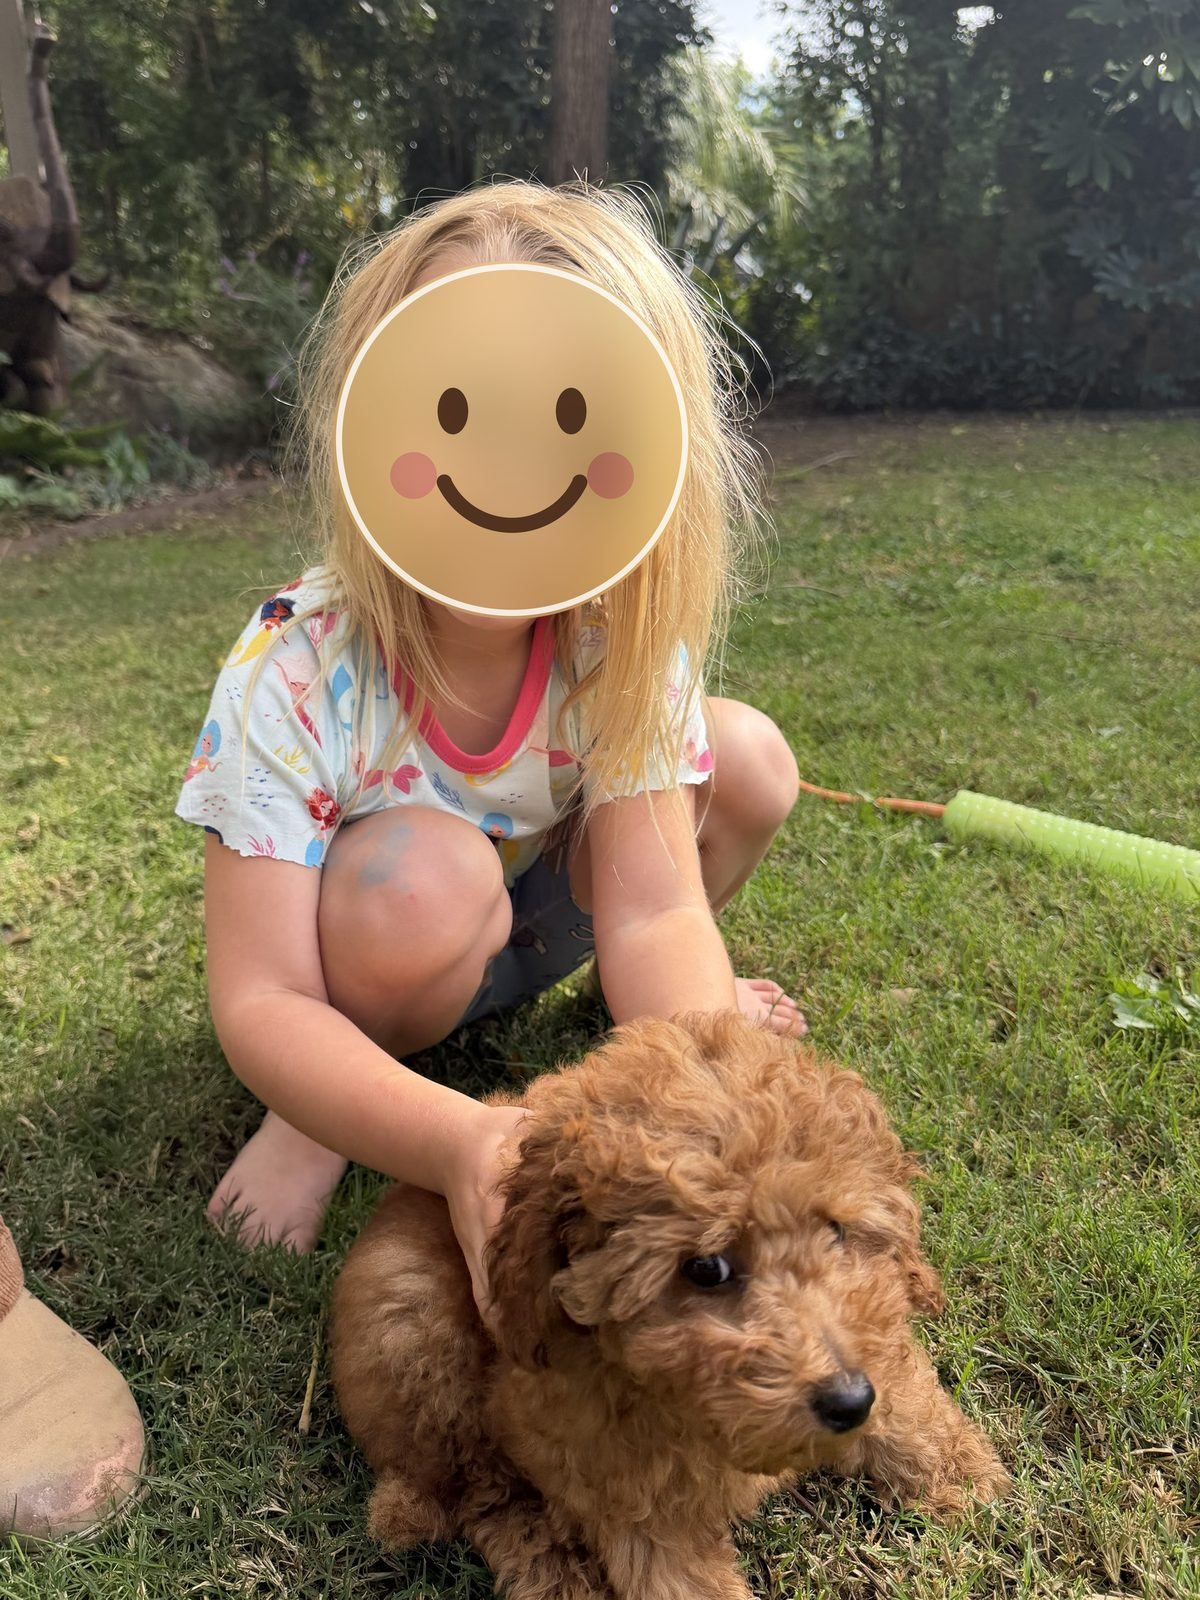
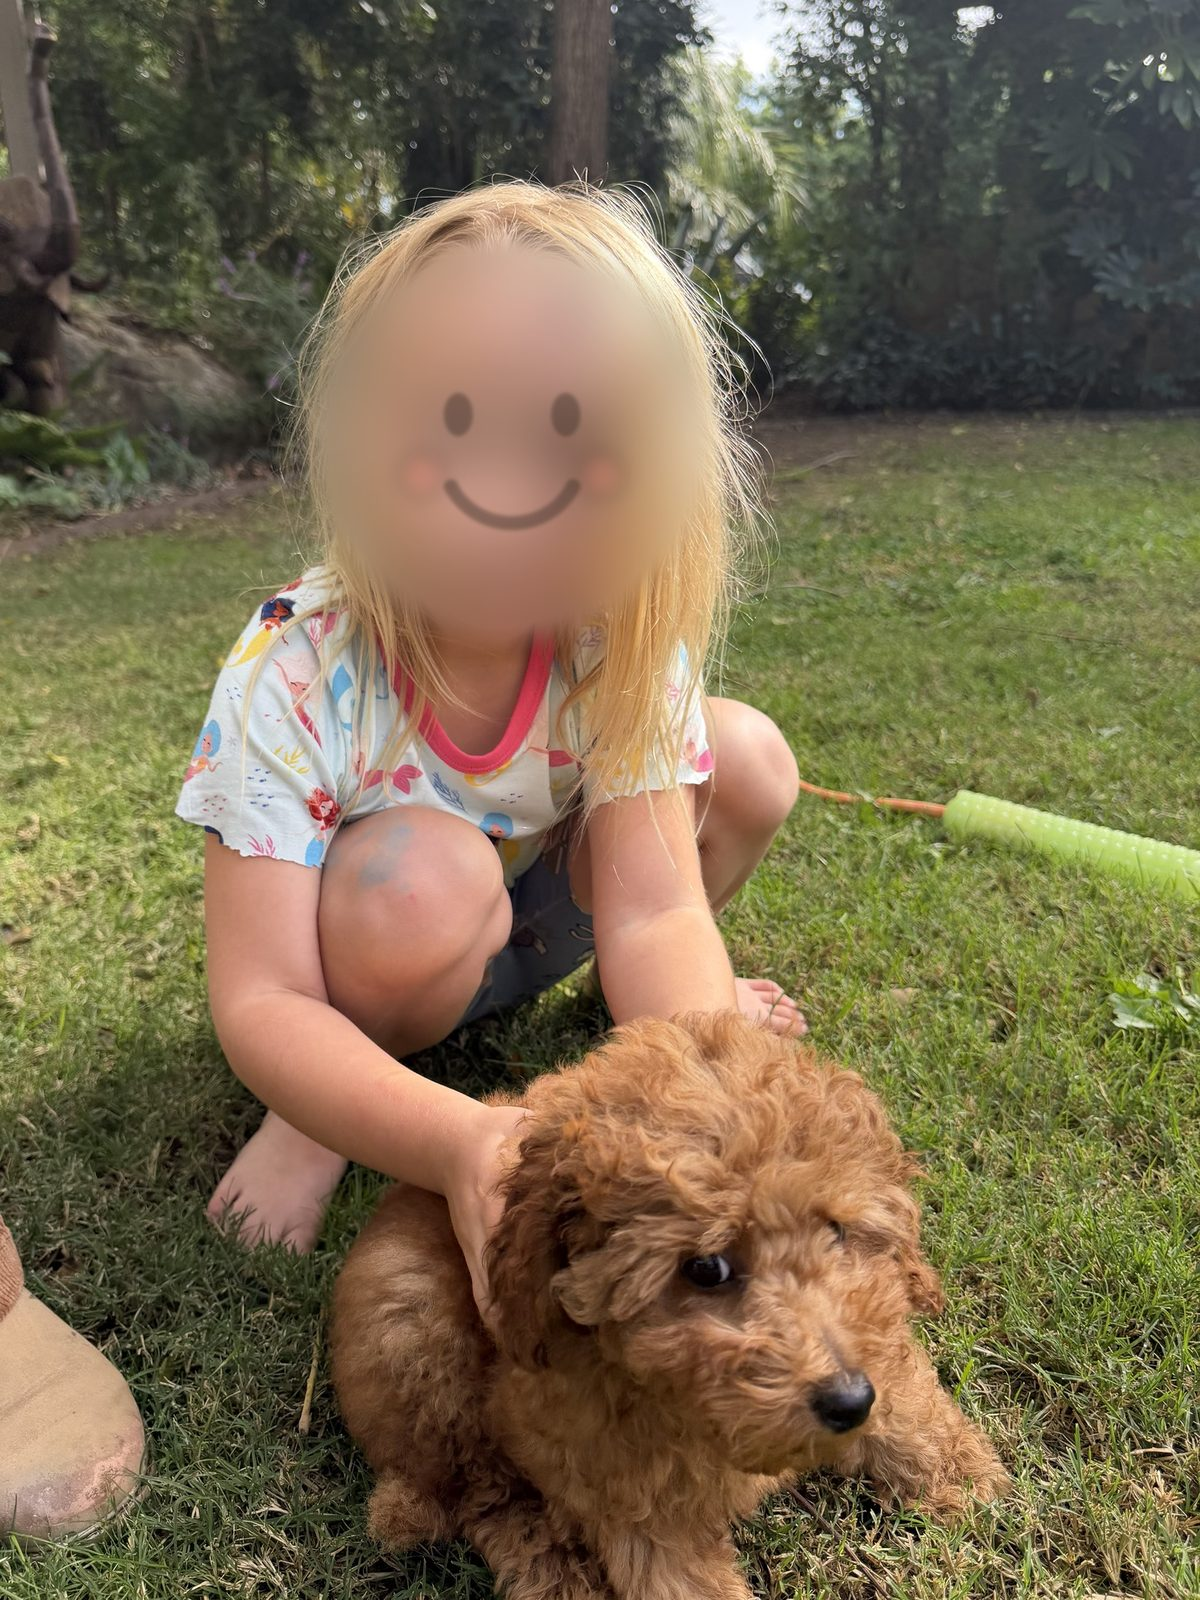
Softer face covers on the children's photos; remove the Serious inquiries card from Claude's section; label Pixel and Fable 5.2 in the group photo
Claude-Session: https://claude.ai/code/session_01QpaupgFsTbuQYrvcNpFQvW

Changed region(s): [[0.2467, 0.125, 0.5858, 0.4062]]

diff --git a/index.html b/index.html
@@ -508,7 +508,7 @@ footer .links a{color:inherit}
     <div class="photo-row">
       <img src="img/litter-2026-11-andy-with-sisters.jpg" alt="Andy Hass of USA Poodle holding Fable 5.2 and Pixel, the two red Toy Poodle sisters" loading="lazy">
       <img src="img/litter-2026-11-andy-with-puppy.jpg" alt="Andy Hass of USA Poodle holding a red Toy Poodle puppy from the Pepe x Poppy litter" loading="lazy">
-      <img src="img/litter-2026-11-puppies-in-clover.jpg" alt="Red Toy Poodle puppies sitting together in the clover" loading="lazy">
+      <img src="img/litter-2026-11-puppies-in-clover.jpg" alt="Red Toy Poodle puppies sitting together in the clover, Pixel on the left and Fable 5.2 in the middle" loading="lazy">
       <img src="img/litter-2026-11-puppy-in-clover.jpg" alt="A red Toy Poodle puppy from the Pepe x Poppy litter lying in the grass" loading="lazy">
     </div>
     <div class="btn-row"><a class="btn" href="#litters">See Recent Past Litters</a><a class="btn btn-solid" href="#apply">Apply for Fable 5.2 or Pixel</a></div>
@@ -531,29 +531,26 @@ footer .links a{color:inherit}
         </ul>
       </div>
     </div>
+    <div class="photo-row" style="margin-top:2.4em">
+      <img src="img/claude-park-2.jpg" alt="Claude the red Toy Poodle puppy sitting in the park, facing the camera" loading="lazy">
+      <img src="img/claude-park-6.jpg" alt="Claude the red Toy Poodle puppy in profile on the grass" loading="lazy">
+      <img src="img/claude-park-4.jpg" alt="Claude the red Toy Poodle puppy sitting in a garden with flowers behind him" loading="lazy">
+      <img src="img/claude-park-3.jpg" alt="Claude the red Toy Poodle puppy lying in the grass, chin down, looking at the camera" loading="lazy">
+    </div>
     <h3 class="row-title">With his new family</h3>
     <div class="photo-row">
-      <img src="img/claude-home-1.jpg" alt="Two children petting Claude, the red Toy Poodle puppy, on the lawn the day he went home" loading="lazy">
+      <img src="img/claude-home-1.jpg?v=2" alt="Two children petting Claude, the red Toy Poodle puppy, on the lawn the day he went home" loading="lazy">
       <img src="img/claude-home-4.jpg" alt="A man smiling down at Claude, the red Toy Poodle puppy, cradled in his arms in the garden" loading="lazy" style="object-position:62% 50%">
-      <img src="img/claude-home-2.jpg" alt="A child crouching on the grass with a hand on Claude, the red Toy Poodle puppy" loading="lazy">
-      <img src="img/claude-home-3.jpg" alt="Two children reaching down to Claude, the red Toy Poodle puppy, sitting on the lawn" loading="lazy">
+      <img src="img/claude-home-2.jpg?v=2" alt="A child crouching on the grass with a hand on Claude, the red Toy Poodle puppy" loading="lazy">
+      <img src="img/claude-home-3.jpg?v=2" alt="Two children reaching down to Claude, the red Toy Poodle puppy, sitting on the lawn" loading="lazy">
     </div>
     <h3 class="row-title">At the vet</h3>
     <div class="photo-row five">
       <img src="img/claude-vet-1.jpg" alt="The veterinarian smiling and holding Claude, the red Toy Poodle puppy" loading="lazy">
       <img src="img/claude-vet-2.jpg" alt="The veterinarian listening to Claude's heart with a stethoscope on the exam table" loading="lazy">
       <img src="img/claude-vet-3.jpg" alt="A veterinary technician smiling and holding Claude, the red Toy Poodle puppy" loading="lazy">
-      <img src="img/claude-vet-4.jpg" alt="A boy petting Claude, the red Toy Poodle puppy, on a bench in the vet's waiting room" loading="lazy">
+      <img src="img/claude-vet-4.jpg?v=2" alt="A boy petting Claude, the red Toy Poodle puppy, on a bench in the vet's waiting room" loading="lazy">
       <img src="img/claude-vet-5.jpg" alt="Claude, the red Toy Poodle puppy, sitting next to his AKC Welcome Home puppy folder" loading="lazy">
-    </div>
-    <div class="cards" style="margin-top:2.4em">
-      <div class="card" style="background:transparent; box-shadow:none; padding:0"><img src="img/claude-park-2.jpg" alt="Claude the red Toy Poodle puppy sitting in the park, facing the camera" loading="lazy" style="border-radius:14px; aspect-ratio:4/5; object-fit:cover; width:100%; box-shadow:var(--shadow)"></div>
-      <div class="card" style="background:transparent; box-shadow:none; padding:0"><img src="img/claude-park-6.jpg" alt="Claude the red Toy Poodle puppy in profile on the grass" loading="lazy" style="border-radius:14px; aspect-ratio:4/5; object-fit:cover; width:100%; box-shadow:var(--shadow)"></div>
-      <div class="card" style="background:transparent; box-shadow:none; padding:0"><img src="img/claude-park-4.jpg" alt="Claude the red Toy Poodle puppy sitting in a garden with flowers behind him" loading="lazy" style="border-radius:14px; aspect-ratio:4/5; object-fit:cover; width:100%; box-shadow:var(--shadow)"></div>
-    </div>
-    <div class="cards" style="margin-top:2.4em">
-      <div class="card" style="background:transparent; box-shadow:none; padding:0"><img src="img/claude-park-3.jpg" alt="Claude the red Toy Poodle puppy lying in the grass, chin down, looking at the camera" style="border-radius:14px; aspect-ratio:4/5; object-fit:cover; box-shadow:var(--shadow)"></div>
-      <div class="card" style="background:rgba(255,255,255,.08); box-shadow:none; display:flex; align-items:center; grid-column:span 2"><p style="margin:0; font-size:.92rem">Serious inquiries only: (805) 888-0133 or socalhass@gmail.com. Registration terms and vaccination/vet-check details confirmed at reservation.</p></div>
     </div>
   </div>
 </section>
@@ -604,21 +601,21 @@ footer .links a{color:inherit}
       <img src="img/litter-2026-11-puppy-in-meadow.jpg" alt="A red Toy Poodle puppy from the Pepe x Poppy litter held up in a sunny meadow" loading="lazy">
       <img src="img/litter-2026-11-sisters-sleeping.jpg" alt="Fable 5.2 and Pixel, the two red Toy Poodle sisters, asleep side by side" loading="lazy">
       <img src="img/litter-2026-11-andy-with-puppy.jpg" alt="Andy Hass of USA Poodle holding a red Toy Poodle puppy from the Pepe x Poppy litter" loading="lazy">
-      <img src="img/litter-2026-11-puppies-in-clover.jpg" alt="Red Toy Poodle puppies sitting together in the clover" loading="lazy">
+      <img src="img/litter-2026-11-puppies-in-clover.jpg" alt="Red Toy Poodle puppies sitting together in the clover, Pixel on the left and Fable 5.2 in the middle" loading="lazy">
       <img src="img/litter-2026-11-puppy-in-clover.jpg" alt="A red Toy Poodle puppy from the Pepe x Poppy litter lying in the grass" loading="lazy">
-      <img src="img/claude-home-1.jpg" alt="Two children petting Claude, the red Toy Poodle puppy, on the lawn the day he went home" loading="lazy">
+      <img src="img/claude-home-1.jpg?v=2" alt="Two children petting Claude, the red Toy Poodle puppy, on the lawn the day he went home" loading="lazy">
       <img src="img/claude-vet-1.jpg" alt="The veterinarian smiling and holding Claude, the red Toy Poodle puppy" loading="lazy">
       <img src="img/litter-2026-11-10-three-weeks-1.jpg" alt="A red Toy Poodle puppy from the Pepe x Poppy litter at three weeks old, held in one hand" loading="lazy">
       <video controls muted playsinline preload="none" poster="img/litter-2026-11-10-three-weeks-poster.jpg" aria-label="Video of a Pepe x Poppy puppy at three weeks old, held in one hand"><source src="img/litter-2026-11-10-three-weeks.mp4" type="video/mp4"></video>
       <img src="img/claude-home-4.jpg" alt="A man smiling down at Claude, the red Toy Poodle puppy, cradled in his arms in the garden" loading="lazy">
-      <img src="img/claude-home-2.jpg" alt="A child crouching on the grass with a hand on Claude, the red Toy Poodle puppy" loading="lazy">
+      <img src="img/claude-home-2.jpg?v=2" alt="A child crouching on the grass with a hand on Claude, the red Toy Poodle puppy" loading="lazy">
       <img src="img/litter-2026-11-10-three-weeks-2.jpg" alt="A red Toy Poodle puppy at three weeks old resting her chin on a hand" loading="lazy">
       <img src="img/claude-vet-3.jpg" alt="A veterinary technician smiling and holding Claude, the red Toy Poodle puppy" loading="lazy">
-      <img src="img/claude-home-3.jpg" alt="Two children reaching down to Claude, the red Toy Poodle puppy, sitting on the lawn" loading="lazy">
+      <img src="img/claude-home-3.jpg?v=2" alt="Two children reaching down to Claude, the red Toy Poodle puppy, sitting on the lawn" loading="lazy">
       <img src="img/claude-vet-2.jpg" alt="The veterinarian listening to Claude's heart with a stethoscope on the exam table" loading="lazy">
       <img src="img/litter-2026-11-10-three-weeks-3.jpg" alt="A three-week-old red Toy Poodle puppy from the Pepe x Poppy litter held up to the camera" loading="lazy">
       <img src="img/claude-vet-5.jpg" alt="Claude, the red Toy Poodle puppy, sitting next to his AKC Welcome Home puppy folder" loading="lazy">
-      <img src="img/claude-vet-4.jpg" alt="A boy petting Claude, the red Toy Poodle puppy, on a bench in the vet's waiting room" loading="lazy">
+      <img src="img/claude-vet-4.jpg?v=2" alt="A boy petting Claude, the red Toy Poodle puppy, on a bench in the vet's waiting room" loading="lazy">
       <img src="img/claude-park-1.jpg" alt="Claude the red Toy Poodle puppy resting his chin on his paws in the grass" loading="lazy">
       <img src="img/poppy-litter-2026-10-30-sleeping.jpg" alt="The two Pepe x Poppy newborn red Toy Poodle puppies asleep in a pile, 10 days old" loading="lazy">
       <video controls muted playsinline preload="none" poster="img/poppy-litter-2026-10-30-poster.jpg" aria-label="Video of the Pepe x Poppy newborn puppies at 10 days old"><source src="img/poppy-litter-2026-10-30.mp4" type="video/mp4"></video>
